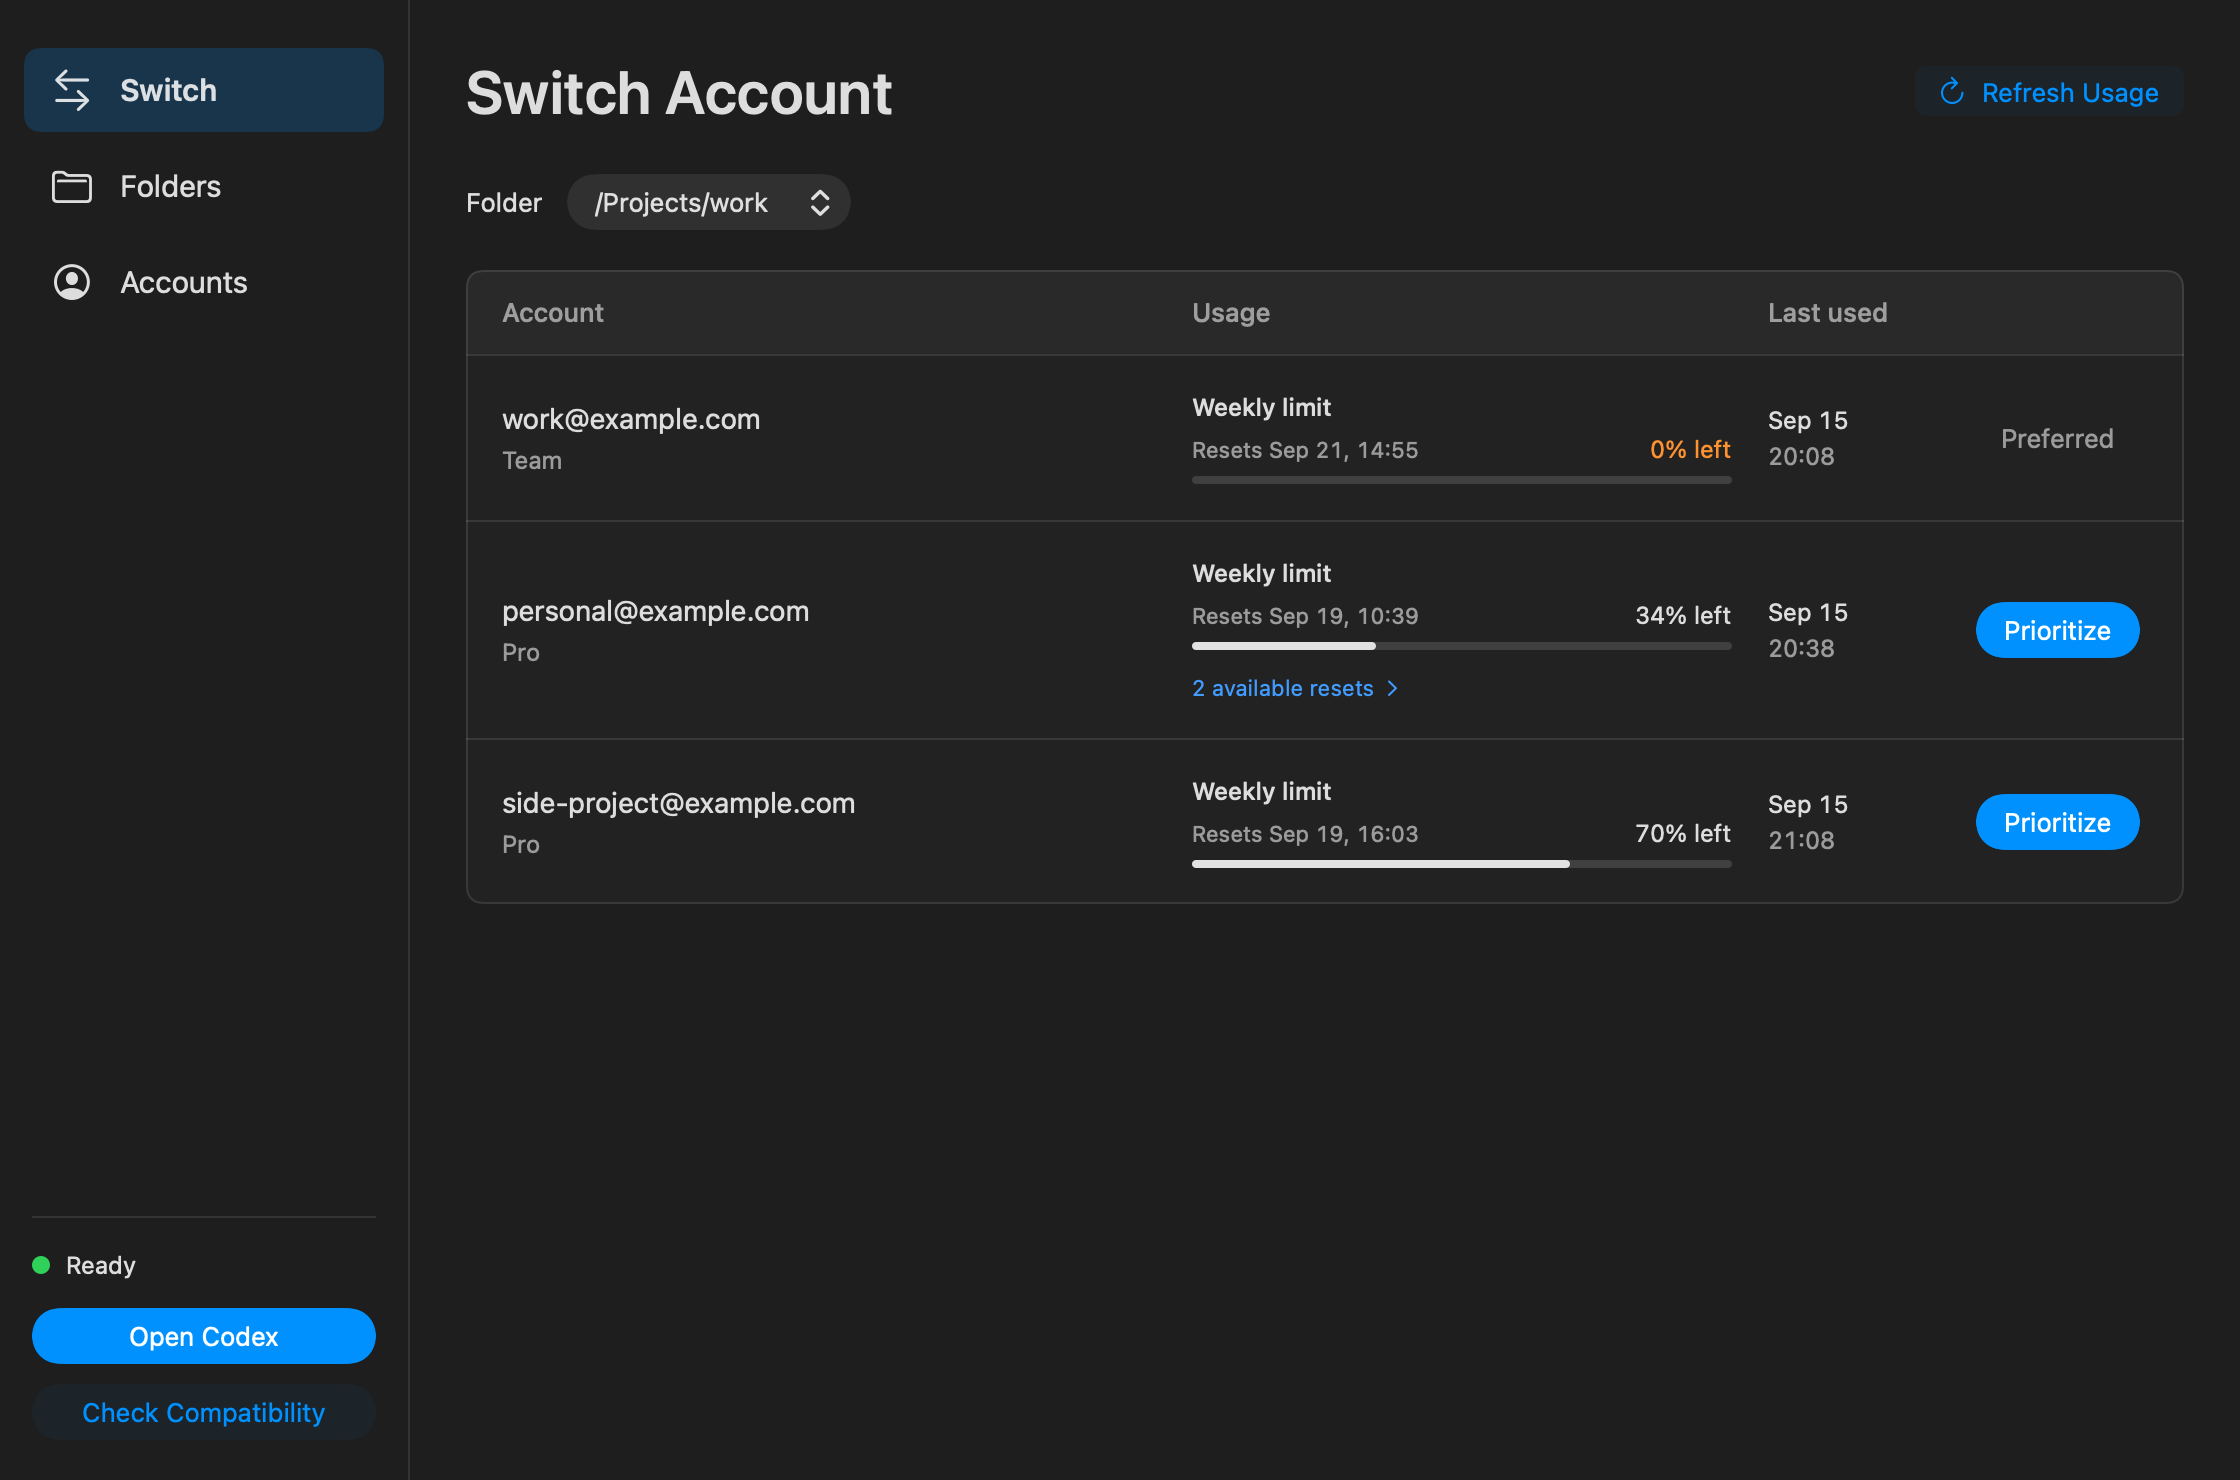
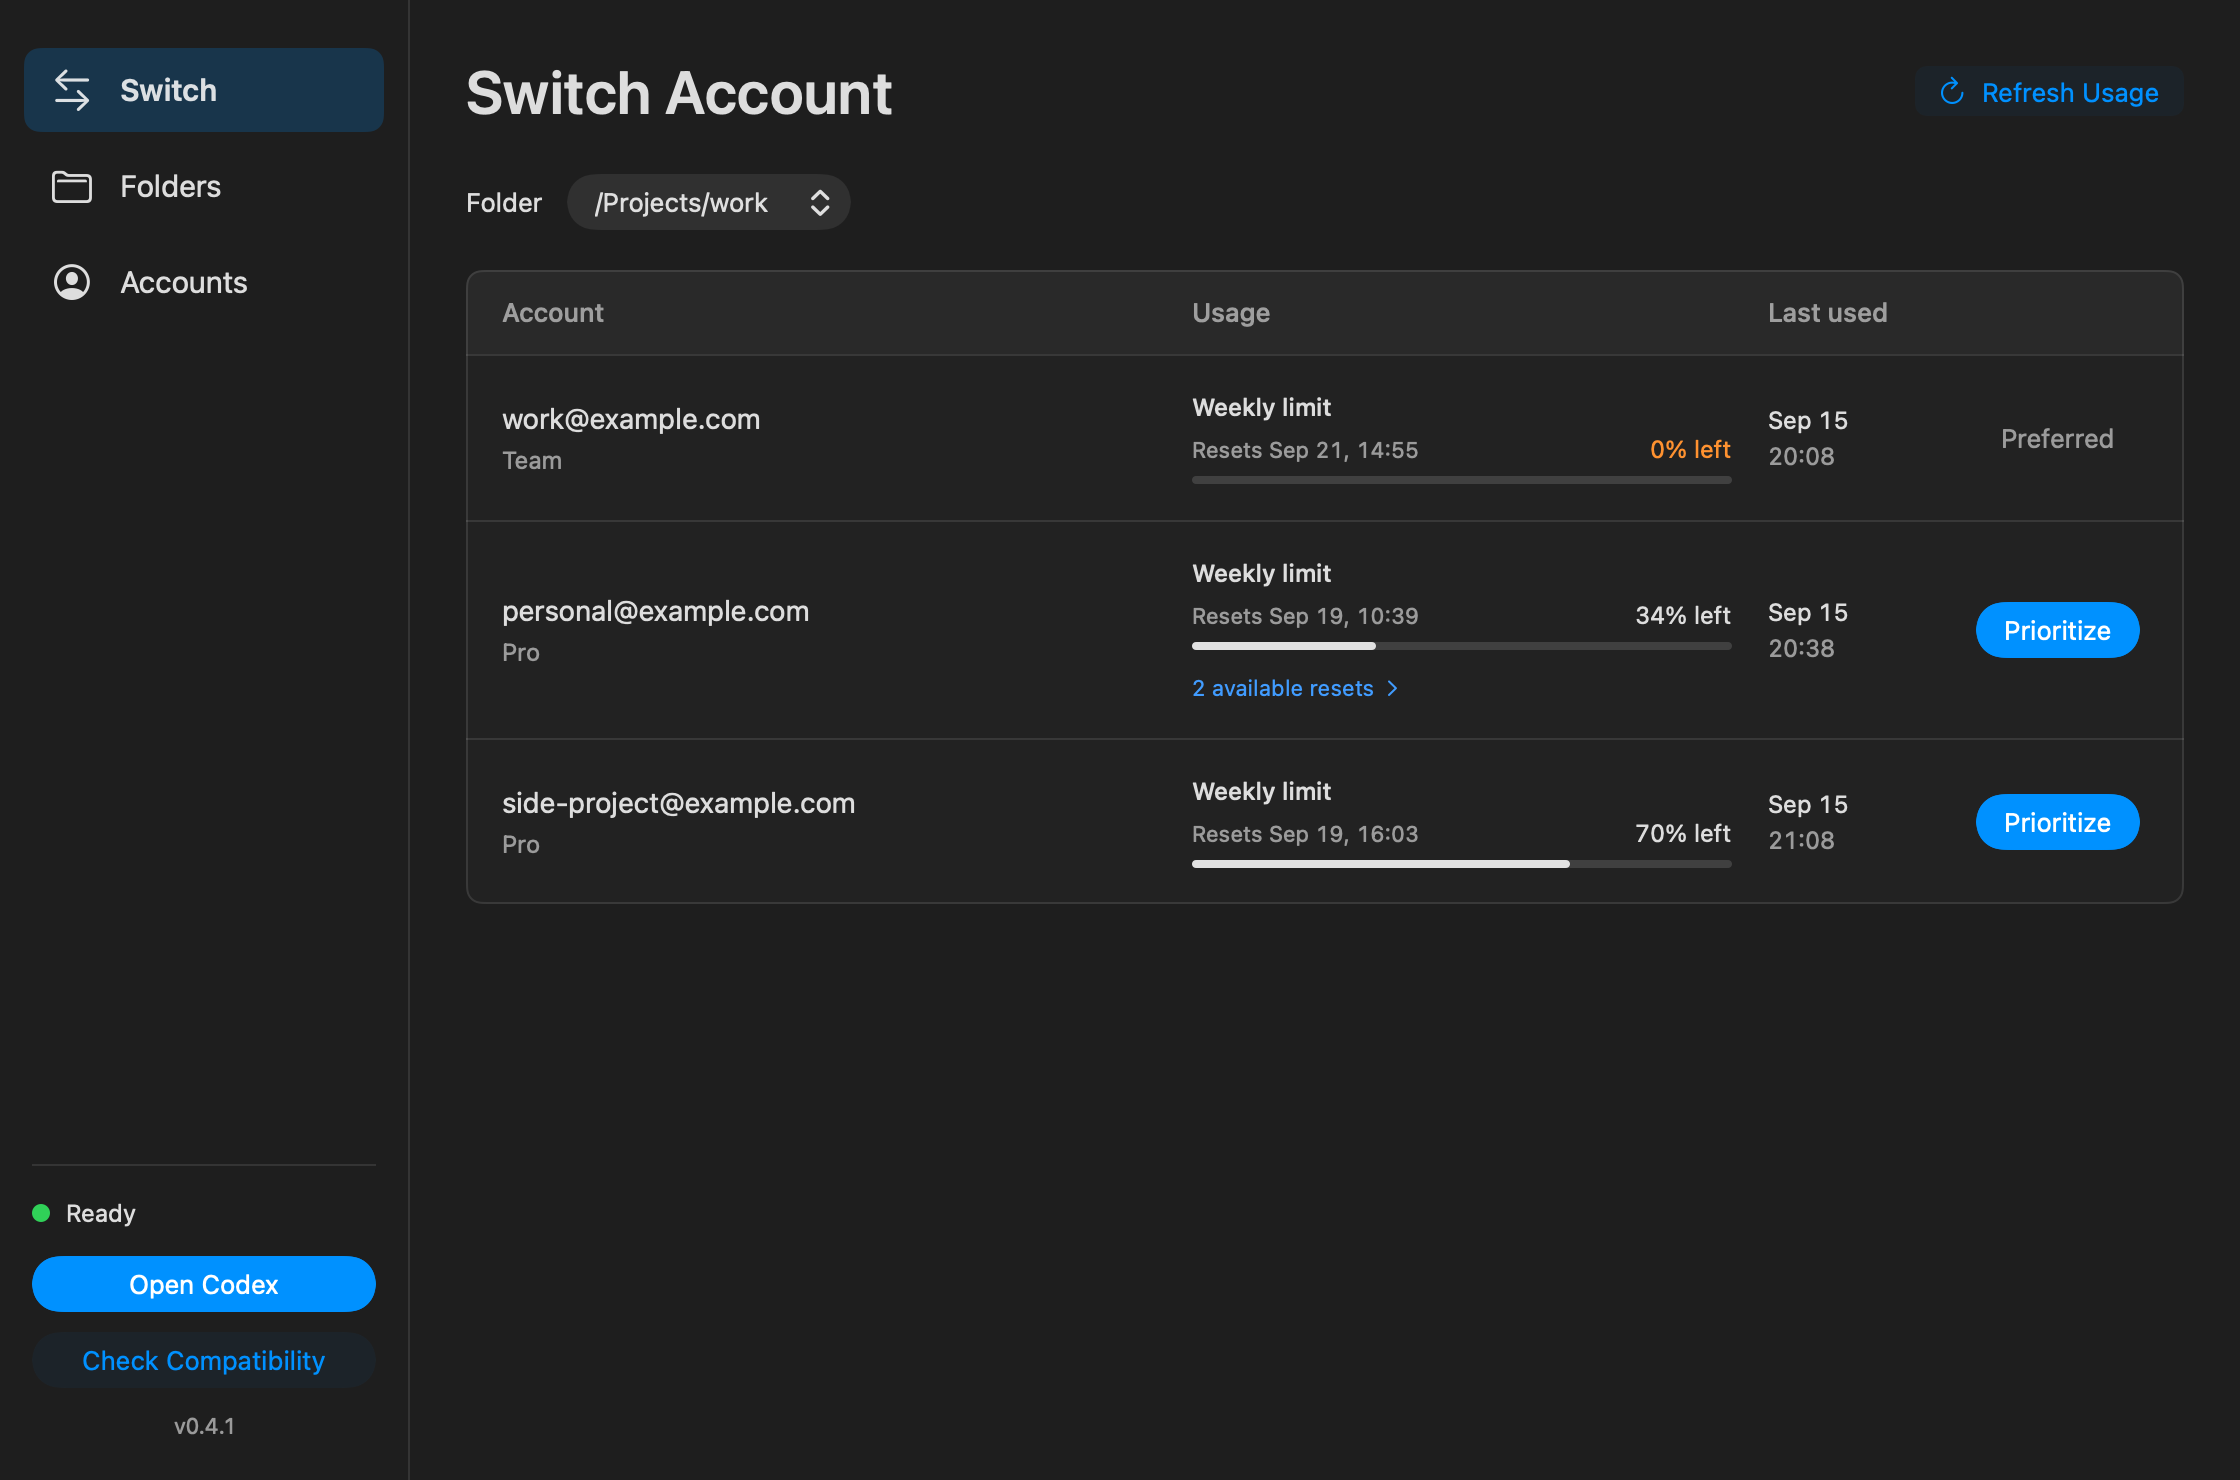
fix: show app version and organize Actions workflows (#19)
* fix: show the installed product version in Settings

* ci: group Actions workflows by purpose

Changed region(s): [[0.0, 0.8081, 0.1875, 0.9635]]

diff --git a/app/Sources/CodexTurnrailApp/TurnrailSettings.swift b/app/Sources/CodexTurnrailApp/TurnrailSettings.swift
@@ -696,6 +696,12 @@ private struct TurnrailStatusControls: View {
         Text("Check Compatibility").frame(maxWidth: .infinity)
       }
       .controlSize(.large)
+      Text("v\(TurnrailVersion.current)")
+        .font(.system(size: 11))
+        .foregroundStyle(.secondary)
+        .textSelection(.enabled)
+        .accessibilityLabel("Codex Turnrail version \(TurnrailVersion.current)")
+        .padding(.top, 2)
     }
     .font(.system(size: 12))
 

diff --git a/app/Sources/CodexTurnrailApp/TurnrailVersion.generated.swift b/app/Sources/CodexTurnrailApp/TurnrailVersion.generated.swift
@@ -1,0 +1,5 @@
+// Generated by scripts/project_metadata.py from packaging/Info.plist.
+
+enum TurnrailVersion {
+  static let current = "0.4.1"
+}

diff --git a/scripts/project_metadata.py b/scripts/project_metadata.py
@@ -12,6 +12,7 @@ import tomllib
 
 ROOT = Path(__file__).resolve().parents[1]
 GENERATED = Path("app/Sources/CodexTurnrailCore/SupportedCodex.generated.swift")
+VERSION_GENERATED = Path("app/Sources/CodexTurnrailApp/TurnrailVersion.generated.swift")
 VERSION = r"(?:0|[1-9][0-9]*)\.(?:0|[1-9][0-9]*)\.(?:0|[1-9][0-9]*)"
 PRERELEASE_IDENTIFIER = r"(?:0|[1-9][0-9]*|[0-9]*[A-Za-z-][0-9A-Za-z-]*)"
 CODEX_VERSION = rf"{VERSION}(?:-{PRERELEASE_IDENTIFIER}(?:\.{PRERELEASE_IDENTIFIER})*)?"
@@ -112,6 +113,21 @@ def product_version(root):
     return version, build
 
 
+def product_version_swift(version):
+    return (
+        "// Generated by scripts/project_metadata.py from packaging/Info.plist.\n"
+        "\n"
+        "enum TurnrailVersion {\n"
+        f"  static let current = {json.dumps(version)}\n"
+        "}\n"
+    )
+
+
+def write_product_version(root):
+    version, _ = product_version(root)
+    (root / VERSION_GENERATED).write_text(product_version_swift(version))
+
+
 def validate(root, *, tag=None):
     metadata = read_upstream(root)
     if metadata["codex"]["repository"] != "https://github.com/openai/codex.git":
@@ -126,6 +142,8 @@ def validate(root, *, tag=None):
         raise ValueError("Engine version does not match the pinned Codex release.")
     if (root / GENERATED).read_text() != supported_swift(metadata):
         raise ValueError("Supported Codex contract is stale; run just metadata-write.")
+    if (root / VERSION_GENERATED).read_text() != product_version_swift(version):
+        raise ValueError("Turnrail app version is stale; run just metadata-write.")
     return {"version": version, "build": build, "upstream": metadata}
 
 
@@ -137,6 +155,7 @@ def main():
     try:
         if args.write:
             (ROOT / GENERATED).write_text(supported_swift(read_upstream(ROOT)))
+            write_product_version(ROOT)
         print(json.dumps(validate(ROOT, tag=args.tag), indent=2))
     except (OSError, KeyError, TypeError, ValueError) as error:
         print(f"Project metadata is invalid: {error}", file=sys.stderr)

diff --git a/scripts/test_release.py b/scripts/test_release.py
@@ -28,6 +28,8 @@ class ReleaseTests(unittest.TestCase):
             "UnrelatedValue": "0.1.0",
         }
         (self.root / "packaging/Info.plist").write_bytes(plistlib.dumps(self.info))
+        (self.root / metadata.VERSION_GENERATED).parent.mkdir(parents=True)
+        metadata.write_product_version(self.root)
 
     def test_reused_engine_preserves_its_original_source_without_changing_app_source(
         self,
@@ -106,7 +108,9 @@ class ReleaseTests(unittest.TestCase):
         engine.assert_not_called()
         signature.assert_not_called()
 
-    def test_version_bump_changes_only_release_fields(self):
+    def test_version_bump_updates_the_displayed_version_and_preserves_other_fields(
+        self,
+    ):
         release.bump(self.root, "0.2.0")
         self.assertEqual(
             plistlib.loads((self.root / "packaging/Info.plist").read_bytes()),
@@ -115,6 +119,10 @@ class ReleaseTests(unittest.TestCase):
                 "CFBundleShortVersionString": "0.2.0",
                 "CFBundleVersion": "27",
             },
+        )
+        self.assertIn(
+            'static let current = "0.2.0"',
+            (self.root / metadata.VERSION_GENERATED).read_text(),
         )
 
     def test_invalid_or_nonincreasing_versions_preserve_metadata(self):
@@ -139,6 +147,11 @@ class ReleaseTests(unittest.TestCase):
         metadata.validate(self.root, tag="v0.1.0")
         with self.assertRaisesRegex(ValueError, "Release tag"):
             metadata.validate(self.root, tag="v0.2.0")
+        displayed_version = self.root / metadata.VERSION_GENERATED
+        displayed_version.write_text(metadata.product_version_swift("0.0.9"))
+        with self.assertRaisesRegex(ValueError, "Turnrail app version is stale"):
+            metadata.validate(self.root)
+        metadata.write_product_version(self.root)
         generated.write_text(
             generated.read_text().replace(upstream["app"]["build"], "99999")
         )

diff --git a/scripts/release.py b/scripts/release.py
@@ -14,7 +14,14 @@ import urllib.request
 from pathlib import Path
 
 import notarization
-from project_metadata import ROOT, cli_version, product_version, validate, version_tuple
+from project_metadata import (
+    ROOT,
+    cli_version,
+    product_version,
+    validate,
+    version_tuple,
+    write_product_version,
+)
 from upstream_watch import github, source_release
 
 APP_NAME = "Codex Turnrail.app"
@@ -46,6 +53,7 @@ def bump(root, version):
     info["CFBundleShortVersionString"] = version
     info["CFBundleVersion"] = str(int(build) + 1)
     path.write_bytes(plistlib.dumps(info, sort_keys=False))
+    write_product_version(root)
 
 
 def check_cli(path, metadata):

diff --git a/docs/development.md b/docs/development.md
@@ -131,9 +131,20 @@ After an update, review the Engine diff and dependency locks, update the support
 
 ## Continuous integration
 
-The root `.github/workflows/ci.yml` is the entrypoint for pull requests and pushes to `main`. All jobs use the same repository revision.
+The Actions list groups workflows by the prefix in their display names:
 
-| Workflow              | Checks                                                                                                                         |
+| Prefix         | Purpose                                                 | Entrypoints                                                                                  |
+| -------------- | ------------------------------------------------------- | -------------------------------------------------------------------------------------------- |
+| `[🔍CI]`       | Validate changes.                                       | `Checks` runs on pull requests, pushes to `main`, and manual requests.                       |
+| `[🚀CD]`       | Prepare the signed, notarized app for publication.      | `Draft release` runs manually for an existing release tag.                                   |
+| `[🔧Util]`     | Monitor upstream releases or measure build performance. | `Monitor ChatGPT updates` runs hourly and manually; `Benchmark Engine builds` runs manually. |
+| `[♻Reusable]` | Shared jobs called by other workflows.                  | These have only `workflow_call` triggers and are not independent entrypoints.                |
+
+Use these prefixes for new workflows. Workflow filenames identify automation calls; job names identify CI checks. Changing a display name does not change either identifier.
+
+The root `.github/workflows/ci.yml` (`[🔍CI] Checks`) is the entrypoint for pull requests and pushes to `main`. All jobs use the same repository revision.
+
+| Job                   | Checks                                                                                                                         |
 | --------------------- | ------------------------------------------------------------------------------------------------------------------------------ |
 | Source and app checks | Formatting, Markdown, Engine source policies, Python tooling, Swift release build and tests, shell syntax, and plist metadata. |
 | Dependency policy     | Cargo dependency license and advisory policy.                                                                                  |

diff --git a/docs/releases.md b/docs/releases.md
@@ -4,6 +4,8 @@
 
 Turnrail uses one product version for the app and its bundled Engine. `packaging/Info.plist` is the canonical product version and monotonically increasing build number.
 
+The Settings sidebar displays this product version. `just metadata-write` generates `TurnrailVersion.generated.swift` from the plist, and `just metadata-check` rejects a stale display version. `just version` updates both the plist and the generated display version.
+
 During `0.x` development, a patch release fixes bugs within the same supported ChatGPT app and Codex CLI combination. A minor release adds features or changes that supported combination. `1.0.0` will mark an explicitly stable product contract. Released tags and assets are never moved or replaced.
 
 `upstream.toml` records the ChatGPT app bundle identifier, version, and build together with the Codex Engine source repository, release tag, and commit. The required CLI version is derived from the source release tag. Generate the Swift compatibility contract with `just metadata-write`; `just metadata-check` rejects drift between this contract and the Engine version.
